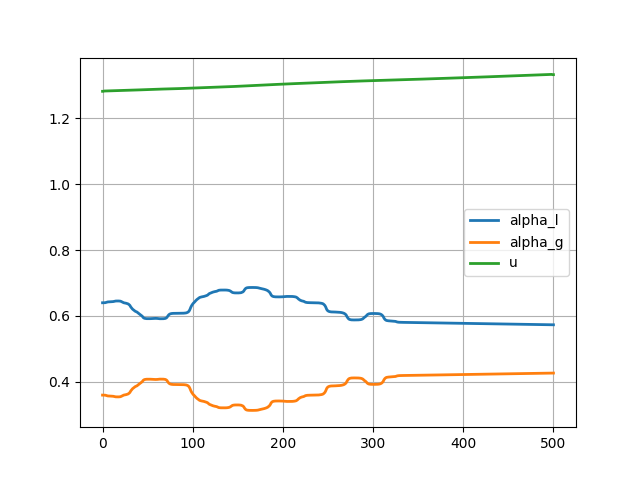
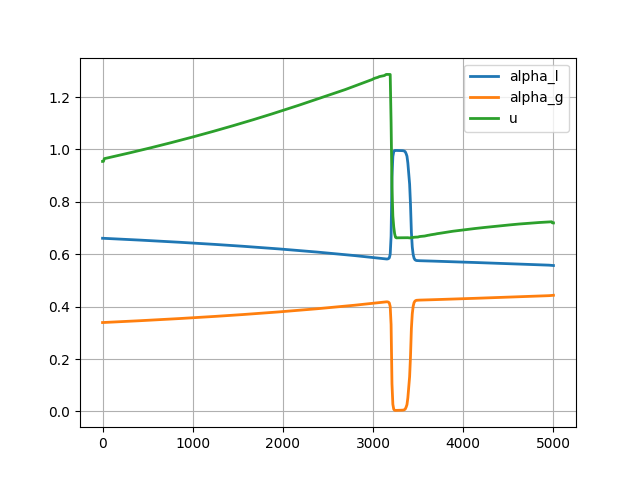
changes

diff --git a/main_scripts/main_multiphase_leak.py b/main_scripts/main_multiphase_leak.py
@@ -104,7 +104,7 @@ class PipeflowEquations(BaseModel):
 
         self.D_orifice = 0.01
         self.A_orifice = np.pi*(self.D_orifice/2)**2
-        self.leak_location = 321.31
+        self.leak_location = 3221.31
         self.Cd = 1.
         self.Cv = self.A/np.sqrt(self.rho_g_norm/2 * ((self.A/(self.A_orifice*self.Cd))**2-1))
         print(f'Cv: {self.Cv:.2E}')
@@ -466,7 +466,7 @@ class PipeflowEquations(BaseModel):
         """Compute the boundary conditions."""
 
 
-        inflow_noise = self.inflow_boundary_noise[len(self.t_vec)]*10
+        inflow_noise = self.inflow_boundary_noise[len(self.t_vec)]*15
 
         
         t_start = 10000000.
@@ -479,9 +479,10 @@ class PipeflowEquations(BaseModel):
         elif t > t_end:
             gas_mass_inflow = 0.4
         else:
-            gas_mass_inflow = 0.2 #+ self.added_boundary_noise# * np.sin(2*np.pi*t/50)
+            gas_mass_inflow = 0.2 + inflow_noise#+ self.added_boundary_noise# * np.sin(2*np.pi*t/50)
 
-        liquid_mass_inflow = 20.0 + inflow_noise
+        gas_mass_inflow = 0.2# + inflow_noise
+        liquid_mass_inflow = 20.0# + inflow_noise
 
         if len(q.shape) == 1:
             rho_g = self.pressure_to_density(q[1]*self.p_outlet)
@@ -636,7 +637,7 @@ class PipeflowEquations(BaseModel):
 
         
         point_source = np.zeros((self.DG_vars.Np*self.DG_vars.K))
-        if t>1000000.:
+        if t>0.:
             x = self.DG_vars.x.flatten('F')
             width = 50
             point_source = \
@@ -660,10 +661,10 @@ if __name__ == '__main__':
 
     basic_args = {
         'xmin': 0,
-        'xmax': 500,
-        'num_elements': 500,
+        'xmax': 5000,
+        'num_elements': 1000,
         'num_states': 3,
-        'polynomial_order': 3,
+        'polynomial_order': 2,
         'polynomial_type': 'legendre',
     }
 
@@ -699,18 +700,18 @@ if __name__ == '__main__':
     '''
     time_integrator_args = {
         'type': 'BDF2',
-        'step_size': .01,
+        'step_size': .005,
         'newton_params': {
             'solver': 'direct',
             'max_newton_iter': 100,
             'newton_tol': 1e-8,
-            'num_jacobian_reuses': 1000,
+            'num_jacobian_reuses': 3000,
         }
     }
     BC_args = {
         'type': 'dirichlet',
         'treatment': 'naive',
-        'state_or_flux': {'left': 'state', 'right': 'state'},
+        'state_or_flux': {'left': 'flux', 'right': 'state'},
     }
 
     pipe_DG = PipeflowEquations(
@@ -724,7 +725,7 @@ if __name__ == '__main__':
             
     init = pipe_DG.initial_condition(pipe_DG.DG_vars.x.flatten('F'))
 
-    t_final = 250.0
+    t_final = 150.0
     sol, t_vec = pipe_DG.solve(
         t=0, 
         q_init=init, 

diff --git a/src/discontinuous_galerkin/nonlinear_solvers/newton.py b/src/discontinuous_galerkin/nonlinear_solvers/newton.py
@@ -9,9 +9,6 @@ from scipy.sparse import csc_matrix
 from scipy.sparse.linalg import splu, spsolve
 
 
-from scipy.optimize import BroydenFirst, KrylovJacobian
-from scipy.optimize import InverseJacobian
-
 
 class NewtonSolver(object):
         """Newton solver for nonlinear problems."""    
